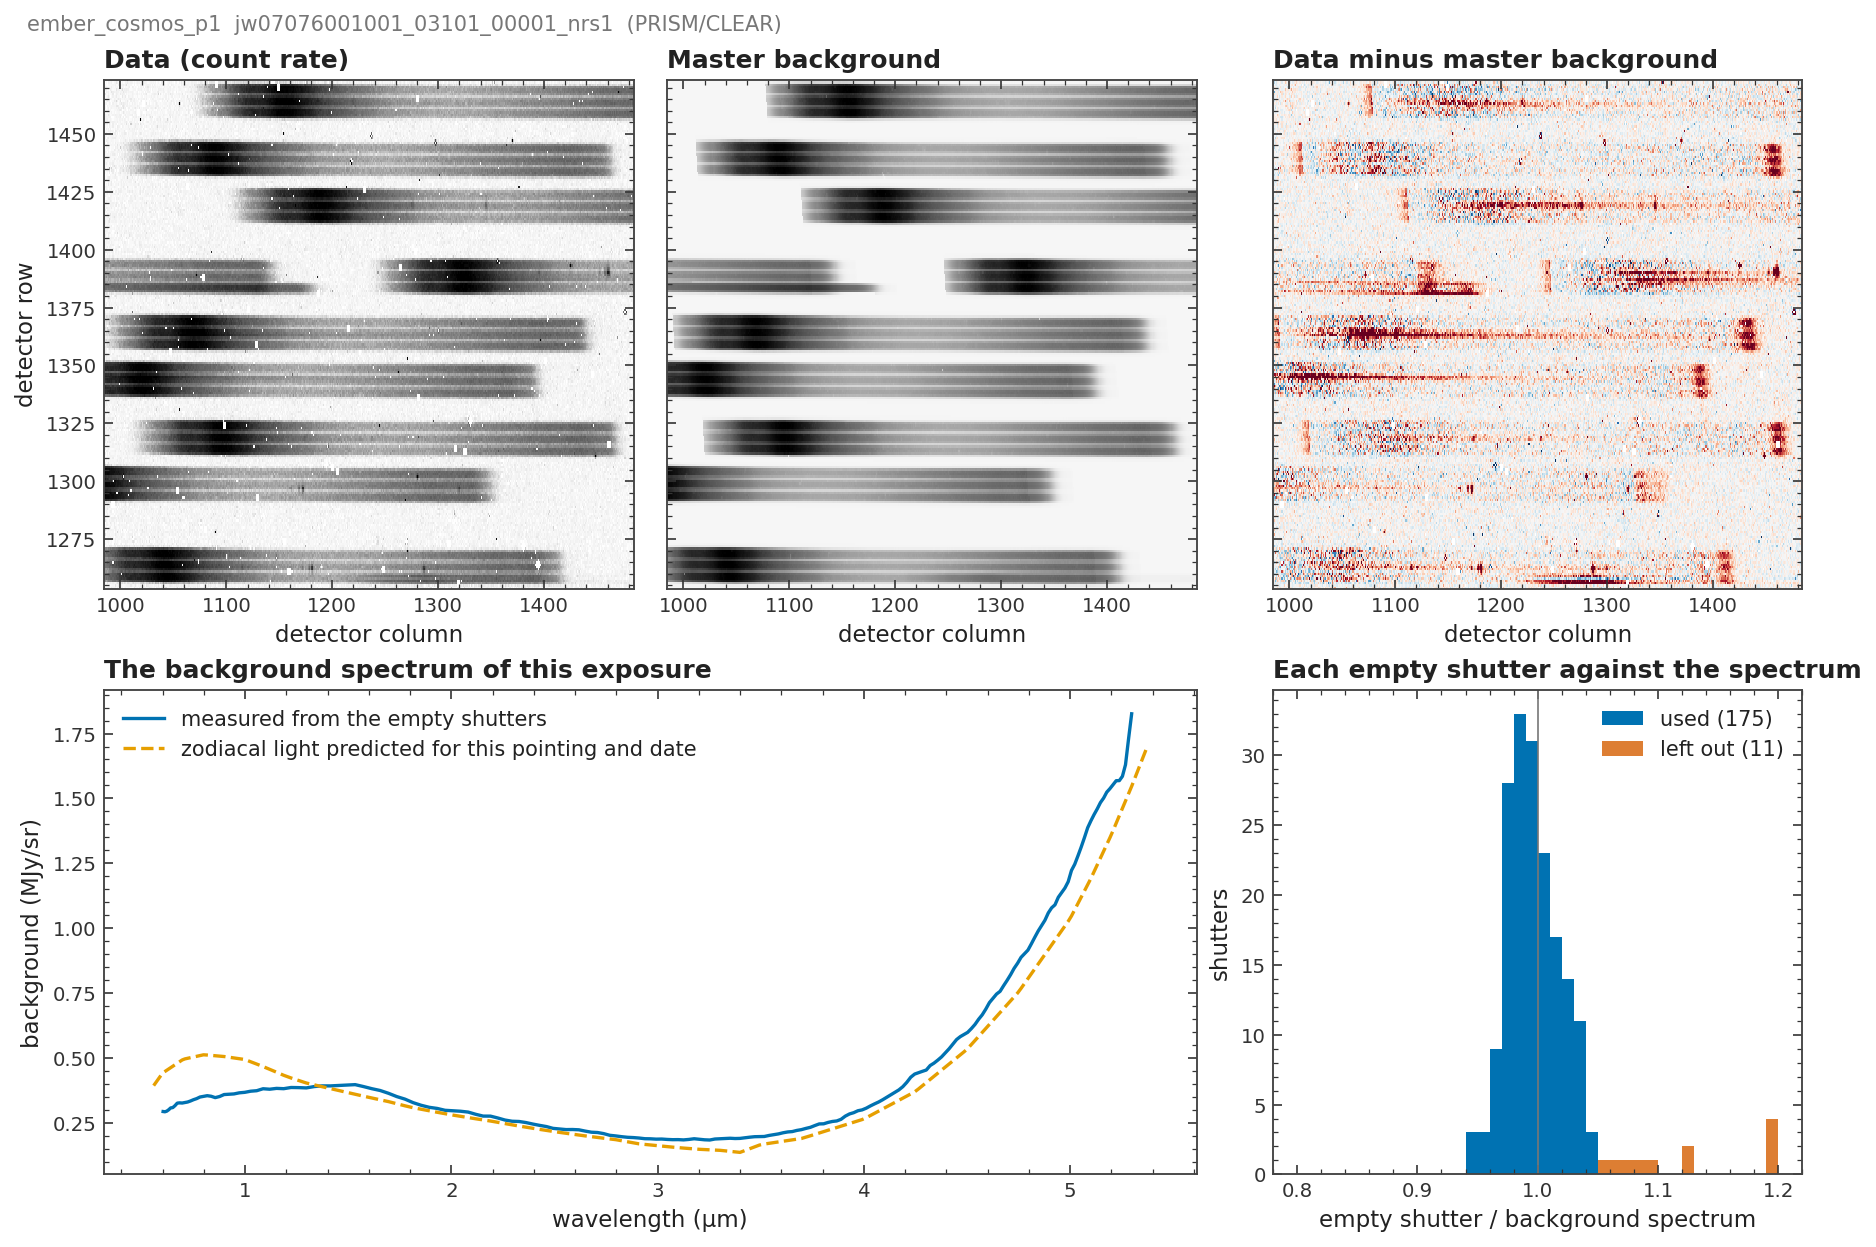
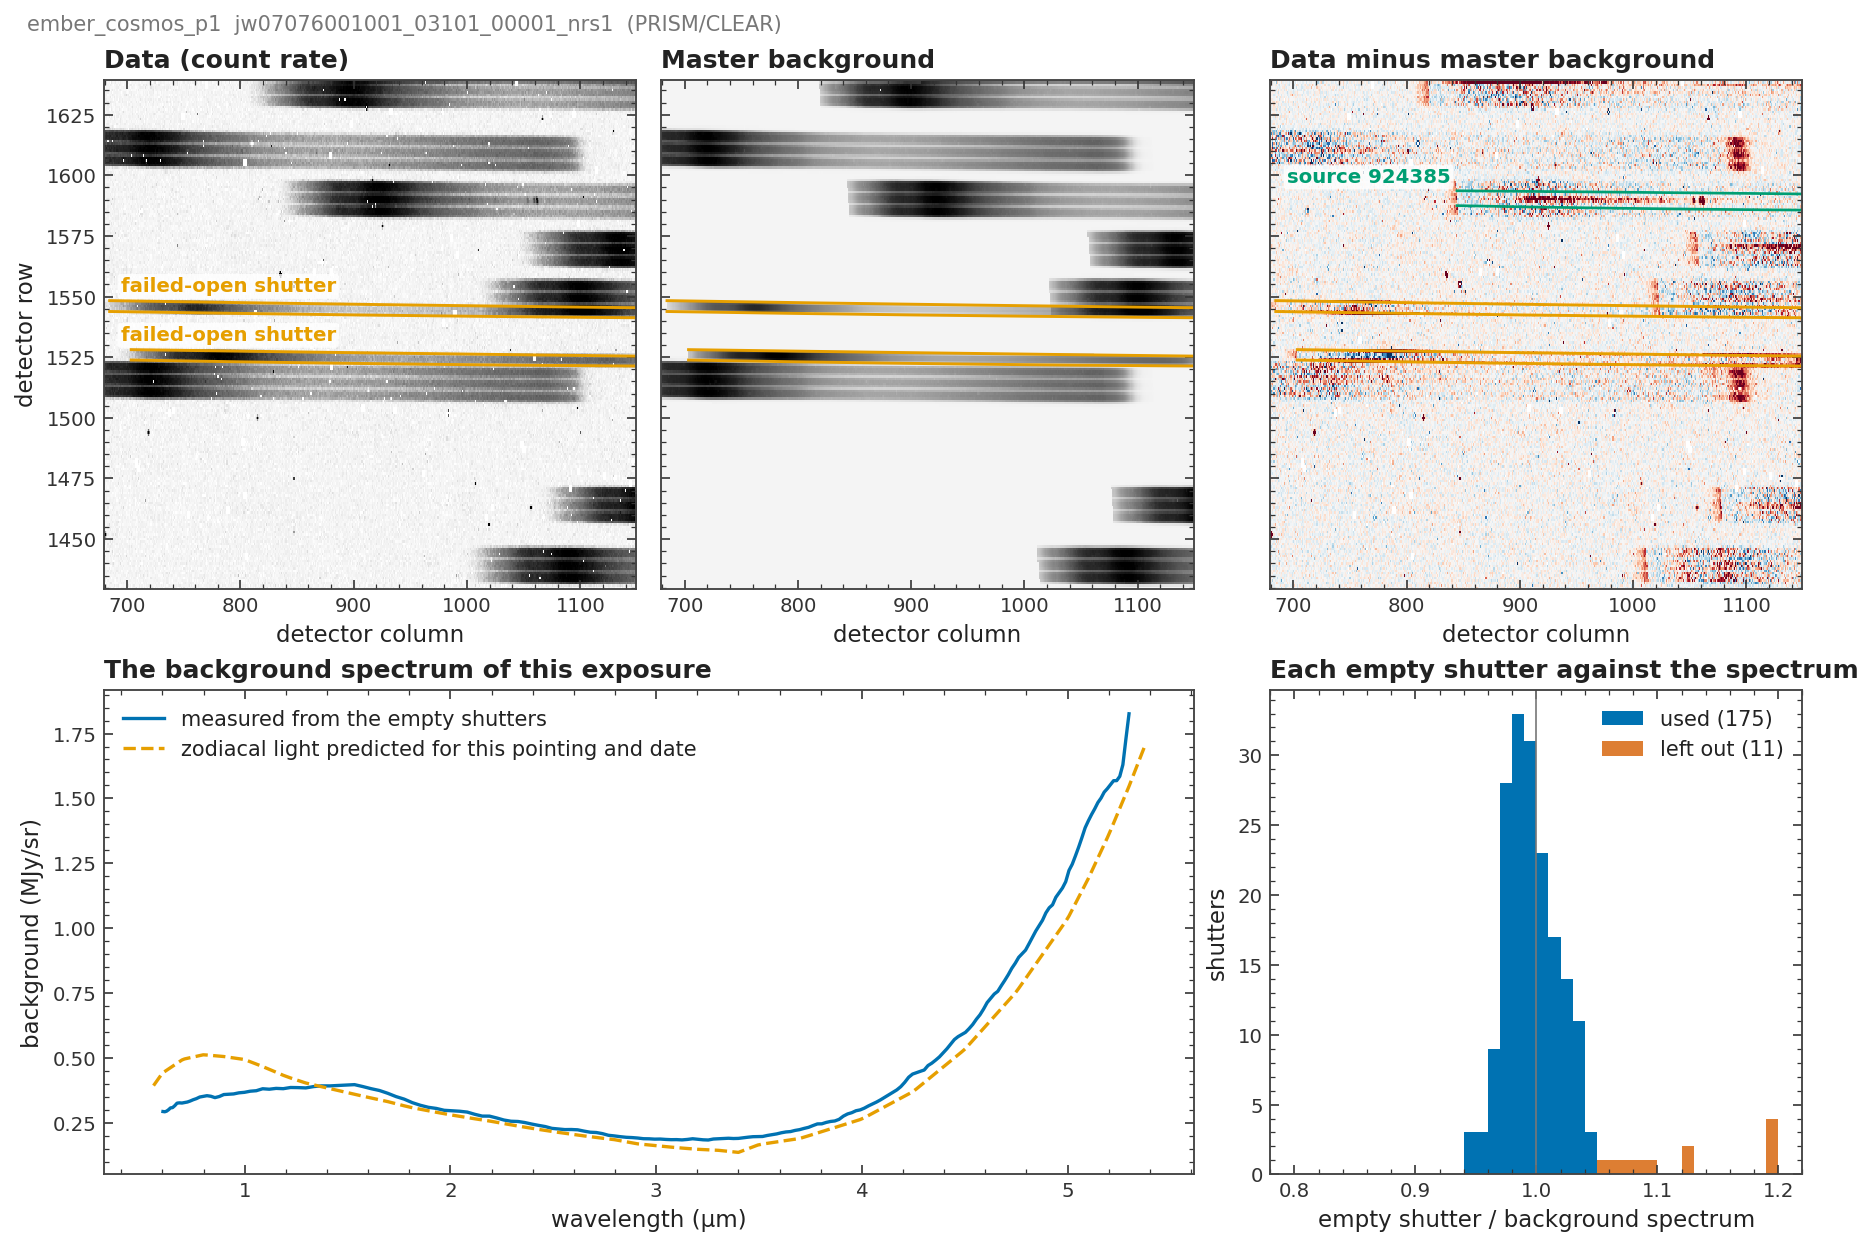
docs: overlap figure shows both detectors with the zoom and zeroth-order images; master background annotates failed-open shutters and a source; bar shadow as one slitlet profile
Claude-Session: https://claude.ai/code/session_019a5zAo87B6jUK2ZMiF6xjZ

diff --git a/scripts/docs/nirspec/fig_overlap.py b/scripts/docs/nirspec/fig_overlap.py
@@ -1,89 +1,137 @@
-"""Why overlapping traces matter: how slitlets share the detector in a grating exposure.
+"""Why overlapping traces matter: how slitlets share the detectors in a grating exposure.
 
-Top: the whole detector, colored by how many slitlets' light lands on each pixel (from the
-exposure's trace map). Middle: a strip of rows across the full width, as count rate.
-Bottom: the same strip with each slitlet's footprint shaded in its own color and labeled at
-its blue end. On the gratings a spectrum is long, so slitlets at different positions in the
-MSA land on the same detector rows, shifted along the dispersion: one source's red end lies
-on another's blue end.
+Top: both detectors of one exposure, colored by how many slitlets' light lands on each
+pixel (from the exposure's trace maps), with a band of rows boxed. Below, that band across
+the full width of the detector: the count rate, then each slitlet's footprint shaded in its
+own color and labeled at its blue end. On the gratings a spectrum is long, so slitlets at
+different positions in the MSA land on the same detector rows, shifted along the
+dispersion: one source's red end lies on another's blue end. Zeroth-order images (compact
+undispersed images of bright sources) are marked.
 
     python scripts/docs/nirspec/fig_overlap.py --root <root> --obs ember_cosmos_p1 \
         --exposure jw07076001001_05101_00001_nrs1 [--rows Y0 NY]
+
+``--exposure`` names the NRS1 file; its NRS2 partner is shown beside it, and the band is
+taken from NRS1.
 """
 import common as C
 
 p = C.parser(__doc__.splitlines()[0])
-p.add_argument('--exposure', required=True, help="e.g. 'jw07076001001_05101_00001_nrs1'")
+p.add_argument('--exposure', required=True, help="the NRS1 exposure, e.g. 'jw07076001001_05101_00001_nrs1'")
 p.add_argument('--rows', type=int, nargs=2, metavar=('Y0', 'NY'), default=None,
-               help='strip of detector rows (0-based first row, number of rows); default: chosen automatically')
-p.add_argument('--strip', type=int, default=36, help='rows in the automatic strip')
+               help='band of NRS1 detector rows (0-based first row, number of rows); default: chosen automatically')
+p.add_argument('--strip', type=int, default=36, help='rows in the automatic band')
+p.add_argument('--zeroth', type=int, default=8, help='zeroth-order images to mark at most (0: none)')
 args = p.parse_args()
 root = C.setup_root(args.root)
 
 import numpy as np                                                    # noqa: E402
 from astropy.io import fits                                           # noqa: E402
 from matplotlib.colors import BoundaryNorm, ListedColormap            # noqa: E402
+from matplotlib.patches import ConnectionPatch, Rectangle             # noqa: E402
+from scipy.ndimage import median_filter                               # noqa: E402
 
 plt = C.style()
 _, obs = C.observation(args.obs)
 ws = C.workspace(root, args.obs)
-rate = np.asarray(fits.getdata(C.rate_file(ws, args.exposure), 'SCI'), float)
-tm = C.trace_map(ws, args.exposure, C.stuck_keys(obs))
-count = tm.count.astype(float)
+stuck = C.stuck_keys(obs)
+exp1, exp2 = args.exposure, args.exposure.replace('_nrs1', '_nrs2')
+rate = np.asarray(fits.getdata(C.rate_file(ws, exp1), 'SCI'), float)
+tm1 = C.trace_map(ws, exp1, stuck)
+tm2 = C.trace_map(ws, exp2, stuck)
+count1, count2 = tm1.count.astype(float), tm2.count.astype(float)
 NY, NX = rate.shape
-
-# one footprint per trace (slitlet or failed-open shutter)
-iy, ix, idx, flg = tm.traces_in(0, 0, NX, NY)
+iy, ix, idx, flg = tm1.traces_in(0, 0, NX, NY)
 
 if args.rows:
     y0, ny = args.rows
 else:
-    # a strip where most lit pixels carry two slitlets: overlap that is common, not extreme
-    two = np.convolve((count == 2).mean(axis=1), np.ones(args.strip), 'valid')
+    # a band where most lit pixels carry two slitlets: overlap that is common, not extreme
+    two = np.convolve((count1 == 2).mean(axis=1), np.ones(args.strip), 'valid')
     y0, ny = int(np.argmax(two)), args.strip
 sl = (slice(y0, y0 + ny), slice(0, NX))
 ext = [-0.5, NX - 0.5, y0 - 0.5, y0 + ny - 0.5]
 
-fig = plt.figure(figsize=(11, 10.5), constrained_layout=True)
-gs = fig.add_gridspec(3, 1, height_ratios=[2.2, 1, 1])
-
-ax = fig.add_subplot(gs[0])
+fig = plt.figure(figsize=(12, 12))
+gs = fig.add_gridspec(3, 2, height_ratios=[2.25, 0.8, 0.8], hspace=0.22, wspace=0.06,
+                      left=0.07, right=0.9, top=0.95, bottom=0.05)
 cmap = ListedColormap(['#ffffff', '#cfe3f1', '#6baed6', '#2171b5', '#08306b'])
-im = ax.imshow(np.minimum(count, 4), cmap=cmap, norm=BoundaryNorm(np.arange(-0.5, 5), 5), aspect='auto')
-ax.axhspan(y0 - 0.5, y0 + ny - 0.5, fc='none', ec=C.PALETTE[5], lw=1.8)
-cb = fig.colorbar(im, ax=ax, ticks=range(5), shrink=0.85, pad=0.01)
+cnorm = BoundaryNorm(np.arange(-0.5, 5), 5)
+top = []
+for k, (cnt, det) in enumerate([(count1, 'NRS1'), (count2, 'NRS2')]):
+    ax = fig.add_subplot(gs[0, k])
+    im = ax.imshow(np.minimum(cnt, 4), cmap=cmap, norm=cnorm)
+    C.label_panel(ax, det)
+    ax.set_xticklabels([])
+    if k == 0:
+        ax.set_ylabel('detector row')
+        ax.add_patch(Rectangle((-0.5, y0 - 0.5), NX, ny, fc='none', ec=C.PALETTE[5], lw=1.8))
+        for xa in (-0.5, NX - 0.5):                 # guides from the box down to the panel's bottom edge
+            ax.plot([xa, xa], [-0.5, y0 - 0.5], color=C.PALETTE[5], lw=1.0, ls=':', clip_on=False)
+    else:
+        ax.set_yticklabels([])
+    top.append(ax)
+cax = fig.add_axes([0.91, 0.63, 0.012, 0.3])
+cb = fig.colorbar(im, cax=cax, ticks=range(5))
 cb.ax.set_yticklabels(['0', '1', '2', '3', '4+'])
 cb.set_label('slitlets lighting the pixel')
-ax.set_title('The whole detector: most pixels receive light from more than one slitlet')
-ax.set_ylabel('detector row')
+cb.ax.minorticks_off()
 
-ax = fig.add_subplot(gs[1])
-ax.imshow(rate[sl], extent=ext, cmap='Greys', norm=C.asinh_norm(rate[sl]), aspect='auto')
-ax.set_title('A strip of the detector (orange box above): count rate')
-ax.set_ylabel('row')
+ax_r = fig.add_subplot(gs[1, :])
+ax_r.imshow(rate[sl], extent=ext, cmap='Greys', norm=C.asinh_norm(rate[sl]), aspect='auto')
+ax_r.set_ylabel('row')
+ax_f = fig.add_subplot(gs[2, :], sharex=ax_r, sharey=ax_r)
+plt.setp(ax_r.get_xticklabels(), visible=False)
+ax_f.imshow(rate[sl], extent=ext, cmap='Greys', norm=C.asinh_norm(rate[sl]), aspect='auto', alpha=0.35)
+for xa in (-0.5, NX - 0.5):                       # NRS1's bottom edge under the box to the band below
+    fig.add_artist(ConnectionPatch(xyA=(xa, -0.5), coordsA=top[0].transData,
+                                   xyB=(xa, y0 + ny - 0.5), coordsB=ax_r.transData,
+                                   color=C.PALETTE[5], lw=1.2, alpha=0.8))
+for sp in ax_r.spines.values():
+    sp.set_edgecolor(C.PALETTE[5])
+    sp.set_linewidth(1.6)
 
-ax = fig.add_subplot(gs[2], sharex=ax, sharey=ax)
-ax.imshow(rate[sl], extent=ext, cmap='Greys', norm=C.asinh_norm(rate[sl]), aspect='auto', alpha=0.35)
-in_strip = (iy >= y0) & (iy < y0 + ny)
-ids, n = np.unique(idx[in_strip], return_counts=True)
-ids = ids[n > 200]                                                     # traces with a real footprint in the strip
-order = ids[np.argsort([np.median(ix[in_strip & (idx == t)]) for t in ids])]
+# zeroth-order images: compact blobs a few pixels wide over several rows, which stand out once
+# each row's smooth light (the dispersed traces) is taken away
+if args.zeroth > 0:
+    band = rate[sl]
+    hp = band - median_filter(np.nan_to_num(band), size=(1, 31))
+    noise = 1.4826 * np.nanmedian(np.abs(hp - np.nanmedian(hp)))
+    tall = (hp > 5 * noise).sum(axis=0)                    # rows above the threshold, per column
+    peaks = []
+    for c in np.argsort(-tall):
+        if tall[c] < 6:
+            break
+        if all(abs(c - q) > 6 for q in peaks):
+            peaks.append(int(c))
+        if len(peaks) == args.zeroth:
+            break
+    for c in peaks:
+        ax_r.annotate('', xy=(c, y0 + ny - 1), xytext=(c, y0 + ny + 4.5), annotation_clip=False,
+                      arrowprops=dict(arrowstyle='-|>', color=C.PALETTE[5], lw=1.4))
+    if peaks:
+        ax_r.text(min(peaks), y0 + ny + 5.5, 'zeroth-order images', color=C.PALETTE[5], fontsize=10,
+                  ha='left', va='bottom', clip_on=False)
+
+in_band = (iy >= y0) & (iy < y0 + ny)
+ids, n = np.unique(idx[in_band], return_counts=True)
+ids = ids[n > 200]                                                     # traces with a real footprint in the band
+order = ids[np.argsort([np.median(ix[in_band & (idx == t)]) for t in ids])]
 for k, t in enumerate(order):
     sel_all = idx == t                                                 # the whole trace, so its edges are smooth
-    sel = in_strip & sel_all
+    sel = in_band & sel_all
     color = C.PALETTE[k % 6]                                           # 6 strong colors; neighbors differ
-    C.draw_trace(ax, iy[sel_all], ix[sel_all], color, fill_alpha=0.30, lw=1.3)
-    rec = tm.slits[int(t)]
-    sid = int(rec['source_id']) if 'source_id' in tm.slits.colnames else -1
+    C.draw_trace(ax_f, iy[sel_all], ix[sel_all], color, fill_alpha=0.30, lw=1.3)
+    rec = tm1.slits[int(t)]
+    sid = int(rec['source_id']) if 'source_id' in tm1.slits.colnames else -1
     name = str(sid) if sid > 0 else ('failed-open shutter' if 'failed' in str(rec['kind']) else str(rec['kind']))
-    xa = int(np.percentile(ix[sel], 1))
-    ya = float(np.median(iy[sel]))
-    ax.text(max(xa, 5), ya, name, fontsize=8.5, color=C.INK, va='center', ha='left',
-            bbox=dict(boxstyle='round,pad=0.15', fc='white', ec=color, lw=0.8, alpha=0.9))
-ax.set_ylim(y0 - 0.5, y0 + ny - 0.5)
-ax.set_title("The same strip: each slitlet's footprint, labeled with its source")
-ax.set_ylabel('row')
-ax.set_xlabel('detector column (wavelength increases to the right)')
-fig.suptitle(f'{args.obs}  {args.exposure}  ({tm.meta.get("GRATING", "")}/{tm.meta.get("FILTER", "")})',
-             x=0.01, ha='left', fontsize=10, color=C.MUTED)
+    ax_f.text(max(int(np.percentile(ix[sel], 1)), 5), float(np.median(iy[sel])), name, fontsize=8.5, color=C.INK,
+              va='center', ha='left', bbox=dict(boxstyle='round,pad=0.15', fc='white', ec=color, lw=0.8, alpha=0.9))
+ax_f.set_ylim(y0 - 0.5, y0 + ny - 0.5)
+ax_f.set_ylabel('row')
+ax_f.set_xlabel('detector column (wavelength increases to the right)')
+C.label_panel(ax_r, 'count rate')
+C.label_panel(ax_f, "each slitlet's footprint, labeled with its source")
+fig.suptitle(f'{args.obs}  {exp1[:-5]}  ({tm1.meta.get("GRATING", "")}/{tm1.meta.get("FILTER", "")}): '
+             'most pixels receive light from more than one slitlet', x=0.07, ha='left', fontsize=11, color=C.INK)
 C.save(fig, args, 'overlap.png')

diff --git a/scripts/docs/nirspec/fig_master_background.py b/scripts/docs/nirspec/fig_master_background.py
@@ -15,13 +15,18 @@ import common as C
 p = C.parser(__doc__.splitlines()[0])
 p.add_argument('--exposure', required=True)
 p.add_argument('--region', type=int, nargs=4, metavar=('X0', 'Y0', 'NX', 'NY'), default=None)
+p.add_argument('--no-annotate', action='store_true',
+               help='leave out the outlines of the failed-open shutters and of the brightest source')
 args = p.parse_args()
 root = C.setup_root(args.root)
 
 import numpy as np                                                    # noqa: E402
 from astropy.io import fits                                           # noqa: E402
 
+from campfire_pipeline.nirspec import trace_overlap as TO             # noqa: E402
+
 plt = C.style()
+_, obs = C.observation(args.obs)
 ws = C.workspace(root, args.obs)
 with fits.open(C.mbkg_file(ws, args.exposure)) as h:
     mb2d = np.asarray(h['MBKG2D'].data, float)
@@ -43,6 +48,32 @@ sl = (slice(y0, y0 + ny), slice(x0, x0 + nx))
 ext = [x0 - 0.5, x0 + nx - 0.5, y0 - 0.5, y0 + ny - 0.5]
 d, m = rate[sl], np.where(np.isfinite(mb2d[sl]), mb2d[sl], np.nan)
 
+# what to outline: the failed-open shutters' traces in the region, and the brightest
+# source's own shutter (where the data minus the master background holds most light)
+fo_traces, src_trace = [], None
+if not args.no_annotate:
+    tm = C.trace_map(ws, args.exposure, C.stuck_keys(obs))
+    iy, ix, idx, flg = tm.traces_in(0, 0, rate.shape[1], rate.shape[0])
+    inreg = (iy >= y0) & (iy < y0 + ny) & (ix >= x0) & (ix < x0 + nx)
+    kind = np.asarray(tm.slits['kind']).astype(str)
+    resid_full = rate - np.nan_to_num(mb2d)
+    best = -np.inf
+    def well_inside(sel):                          # the trace's rows here sit away from the region's edges
+        r = np.median(iy[sel & inreg]) if (sel & inreg).any() else -1
+        return y0 + 0.12 * ny < r < y0 + 0.88 * ny
+    for t in np.unique(idx[inreg]):
+        sel = idx == t
+        if 'failed' in kind[t]:
+            if (sel & inreg).sum() > 500 and well_inside(sel):
+                fo_traces.append((iy[sel], ix[sel], str(tm.slits['name'][t]).strip()))
+            continue
+        src = sel & TO.TraceMap.source_shutter(flg) & inreg
+        if kind[t] == 'slitlet' and src.sum() > 300 and well_inside(src):
+            flux = np.nansum(resid_full[iy[src], ix[src]])
+            if flux > best:
+                best, src_trace = flux, (iy[sel & TO.TraceMap.source_shutter(flg)],
+                                         ix[sel & TO.TraceMap.source_shutter(flg)], int(tm.slits['source_id'][t]))
+
 fig = plt.figure(figsize=(12, 8.2), constrained_layout=True)
 gs = fig.add_gridspec(2, 3, height_ratios=[1, 0.95])
 norm = C.asinh_norm(d)
@@ -54,6 +85,22 @@ for k, (img, title) in enumerate([(d, 'Data (count rate)'), (m, 'Master backgrou
     else:
         lim = np.nanpercentile(np.abs(img), 99)
         ax.imshow(img, extent=ext, cmap='RdBu_r', vmin=-lim, vmax=lim, aspect='auto')
+    for fy, fx, name in fo_traces:                 # failed-open shutters, on every panel
+        e = C.draw_trace(ax, fy, fx, C.PALETTE[1], lw=1.4)
+        if e is not None and k == 0:
+            xs = np.clip(e[0], x0, x0 + nx - 1)
+            j = int(np.argmin(np.abs(xs - (x0 + 0.03 * nx))))
+            ax.text(x0 + 0.03 * nx, e[2][j] + 2, 'failed-open shutter', color=C.PALETTE[1], fontsize=9.5,
+                    fontweight='bold', va='bottom', ha='left',
+                    bbox=dict(boxstyle='round,pad=0.15', fc='white', ec='none', alpha=0.8))
+    if src_trace is not None and k == 2:           # one real source, on the residual
+        e = C.draw_trace(ax, src_trace[0], src_trace[1], C.PALETTE[2], lw=1.3)
+        if e is not None:
+            ax.text(x0 + 0.03 * nx, e[2][len(e[2]) // 10] + 2, f'source {src_trace[2]}', color=C.PALETTE[2],
+                    fontsize=9.5, fontweight='bold', va='bottom', ha='left',
+                    bbox=dict(boxstyle='round,pad=0.15', fc='white', ec='none', alpha=0.8))
+    ax.set_xlim(ext[0], ext[1])
+    ax.set_ylim(ext[2], ext[3])
     ax.set_title(title)
     ax.set_xlabel('detector column')
     if k == 0:

diff --git a/scripts/docs/nirspec/fig_bar_shadow.py b/scripts/docs/nirspec/fig_bar_shadow.py
@@ -52,29 +52,39 @@ tm, tc = table(measured), table(crds)
 lam_all = tm['DATA1X1'][1]
 waves = args.wavelengths or list(np.round(np.percentile(lam_all, [15, 50, 85]), 1))
 
-fig, axes = plt.subplots(1, 2, figsize=(11.5, 4.6), sharey=True, constrained_layout=True)
-for ax, name, title, xlab in [
-        (axes[0], 'DATA1X1', 'An open shutter between closed ones',
-         'position across the shutter (shutter widths from its center)'),
-        (axes[1], 'DATA1X3', 'The bar between two open shutters',
-         'position (shutter widths; the bar is at -0.5)')]:
-    for k, wl in enumerate(waves):
-        color = C.PALETTE[k]
-        for t, ls, lab in ((tm, '-', 'measured'), (tc, '--', 'CRDS reference')):
-            y, lam, d = t[name]
-            col = int(np.argmin(np.abs(lam - wl)))
-            prof = d[:, col].copy()
-            if t is tc and name == 'DATA1X1':
-                prof[np.abs(y) > 0.5] = np.nan        # jwst reads the reference only inside the open shutter
-            ax.step(y, prof, where='mid', color=color, ls=ls, lw=1.8 if ls == '-' else 1.4,
-                    label=f'{wl:g} µm, {lab}')
-    ax.axhline(1.0, color='#cccccc', lw=0.8, zorder=0)
-    ax.set_title(title)
-    ax.set_xlabel(xlab)
-axes[0].set_ylabel('transmission (1 = open shutter center)')
-axes[0].set_xlim(-1, 1)
-axes[1].set_xlim(-1, 0)
-axes[0].legend(loc='lower center', ncol=1, fontsize=9)
+def slitlet_profile(t, wl, y, crds=False):
+    """Transmission across a 3-shutter slitlet (shutter centres at -1, 0, +1) at wavelength
+    ``wl``: the outer edges from DATA1X1 (an open shutter with closed neighbors, its rows -1..1
+    around the shutter), the two interior bars from DATA1X3 (rows -1..0 from one shutter's
+    centre to the next). The CRDS reference is used by jwst only inside open shutters, so
+    beyond the outer shutters' edges it is left blank."""
+    out = np.full(y.shape, np.nan)
+    for name, lo, hi, centre in (('DATA1X1', -2.0, -1.0, -1.0), ('DATA1X3', -1.0, 0.0, 0.0),
+                                 ('DATA1X3', 0.0, 1.0, 1.0), ('DATA1X1', 1.0, 2.0, 1.0)):
+        ty, lam, d = t[name]
+        col = int(np.argmin(np.abs(lam - wl)))
+        sel = (y >= lo) & (y < hi) if hi < 2 else (y >= lo) & (y <= hi)
+        out[sel] = np.interp(y[sel] - centre, ty, d[:, col])
+    if crds:
+        out[np.abs(y) > 1.5] = np.nan
+    return out
+
+
+y = np.linspace(-2, 2, 2001)
+fig, ax = plt.subplots(figsize=(10.5, 4.8), constrained_layout=True)
+for c in (-1, 0, 1):                                # the three open shutters
+    ax.axvspan(c - 0.5, c + 0.5, color='#eeeeee', lw=0, zorder=0)
+for k, wl in enumerate(waves):
+    color = C.PALETTE[k]
+    ax.step(y, slitlet_profile(tm, wl, y), where='mid', color=color, lw=1.8, label=f'{wl:g} µm, measured')
+    ax.step(y, slitlet_profile(tc, wl, y, crds=True), where='mid', color=color, ls='--', lw=1.3,
+            label=f'{wl:g} µm, CRDS reference')
+ax.axhline(1.0, color='#bbbbbb', lw=0.8, zorder=0)
+ax.set_xlim(-2, 2)
+ax.set_xlabel('position across a three-shutter slitlet (shutter widths; shaded: the open shutters)')
+ax.set_ylabel('transmission (1 = open shutter center)')
+ax.set_title('How the MSA dims uniform light across a slitlet')
+ax.legend(loc='center left', bbox_to_anchor=(1.01, 0.5), fontsize=9)
 fig.suptitle(f'{args.disperser.upper()}: measured profile ({os.path.basename(measured)}) and '
              f'{os.path.basename(crds)}', x=0.01, ha='left', fontsize=10, color=C.MUTED)
 C.save(fig, args, f'bar_shadow_{args.disperser}.png')
